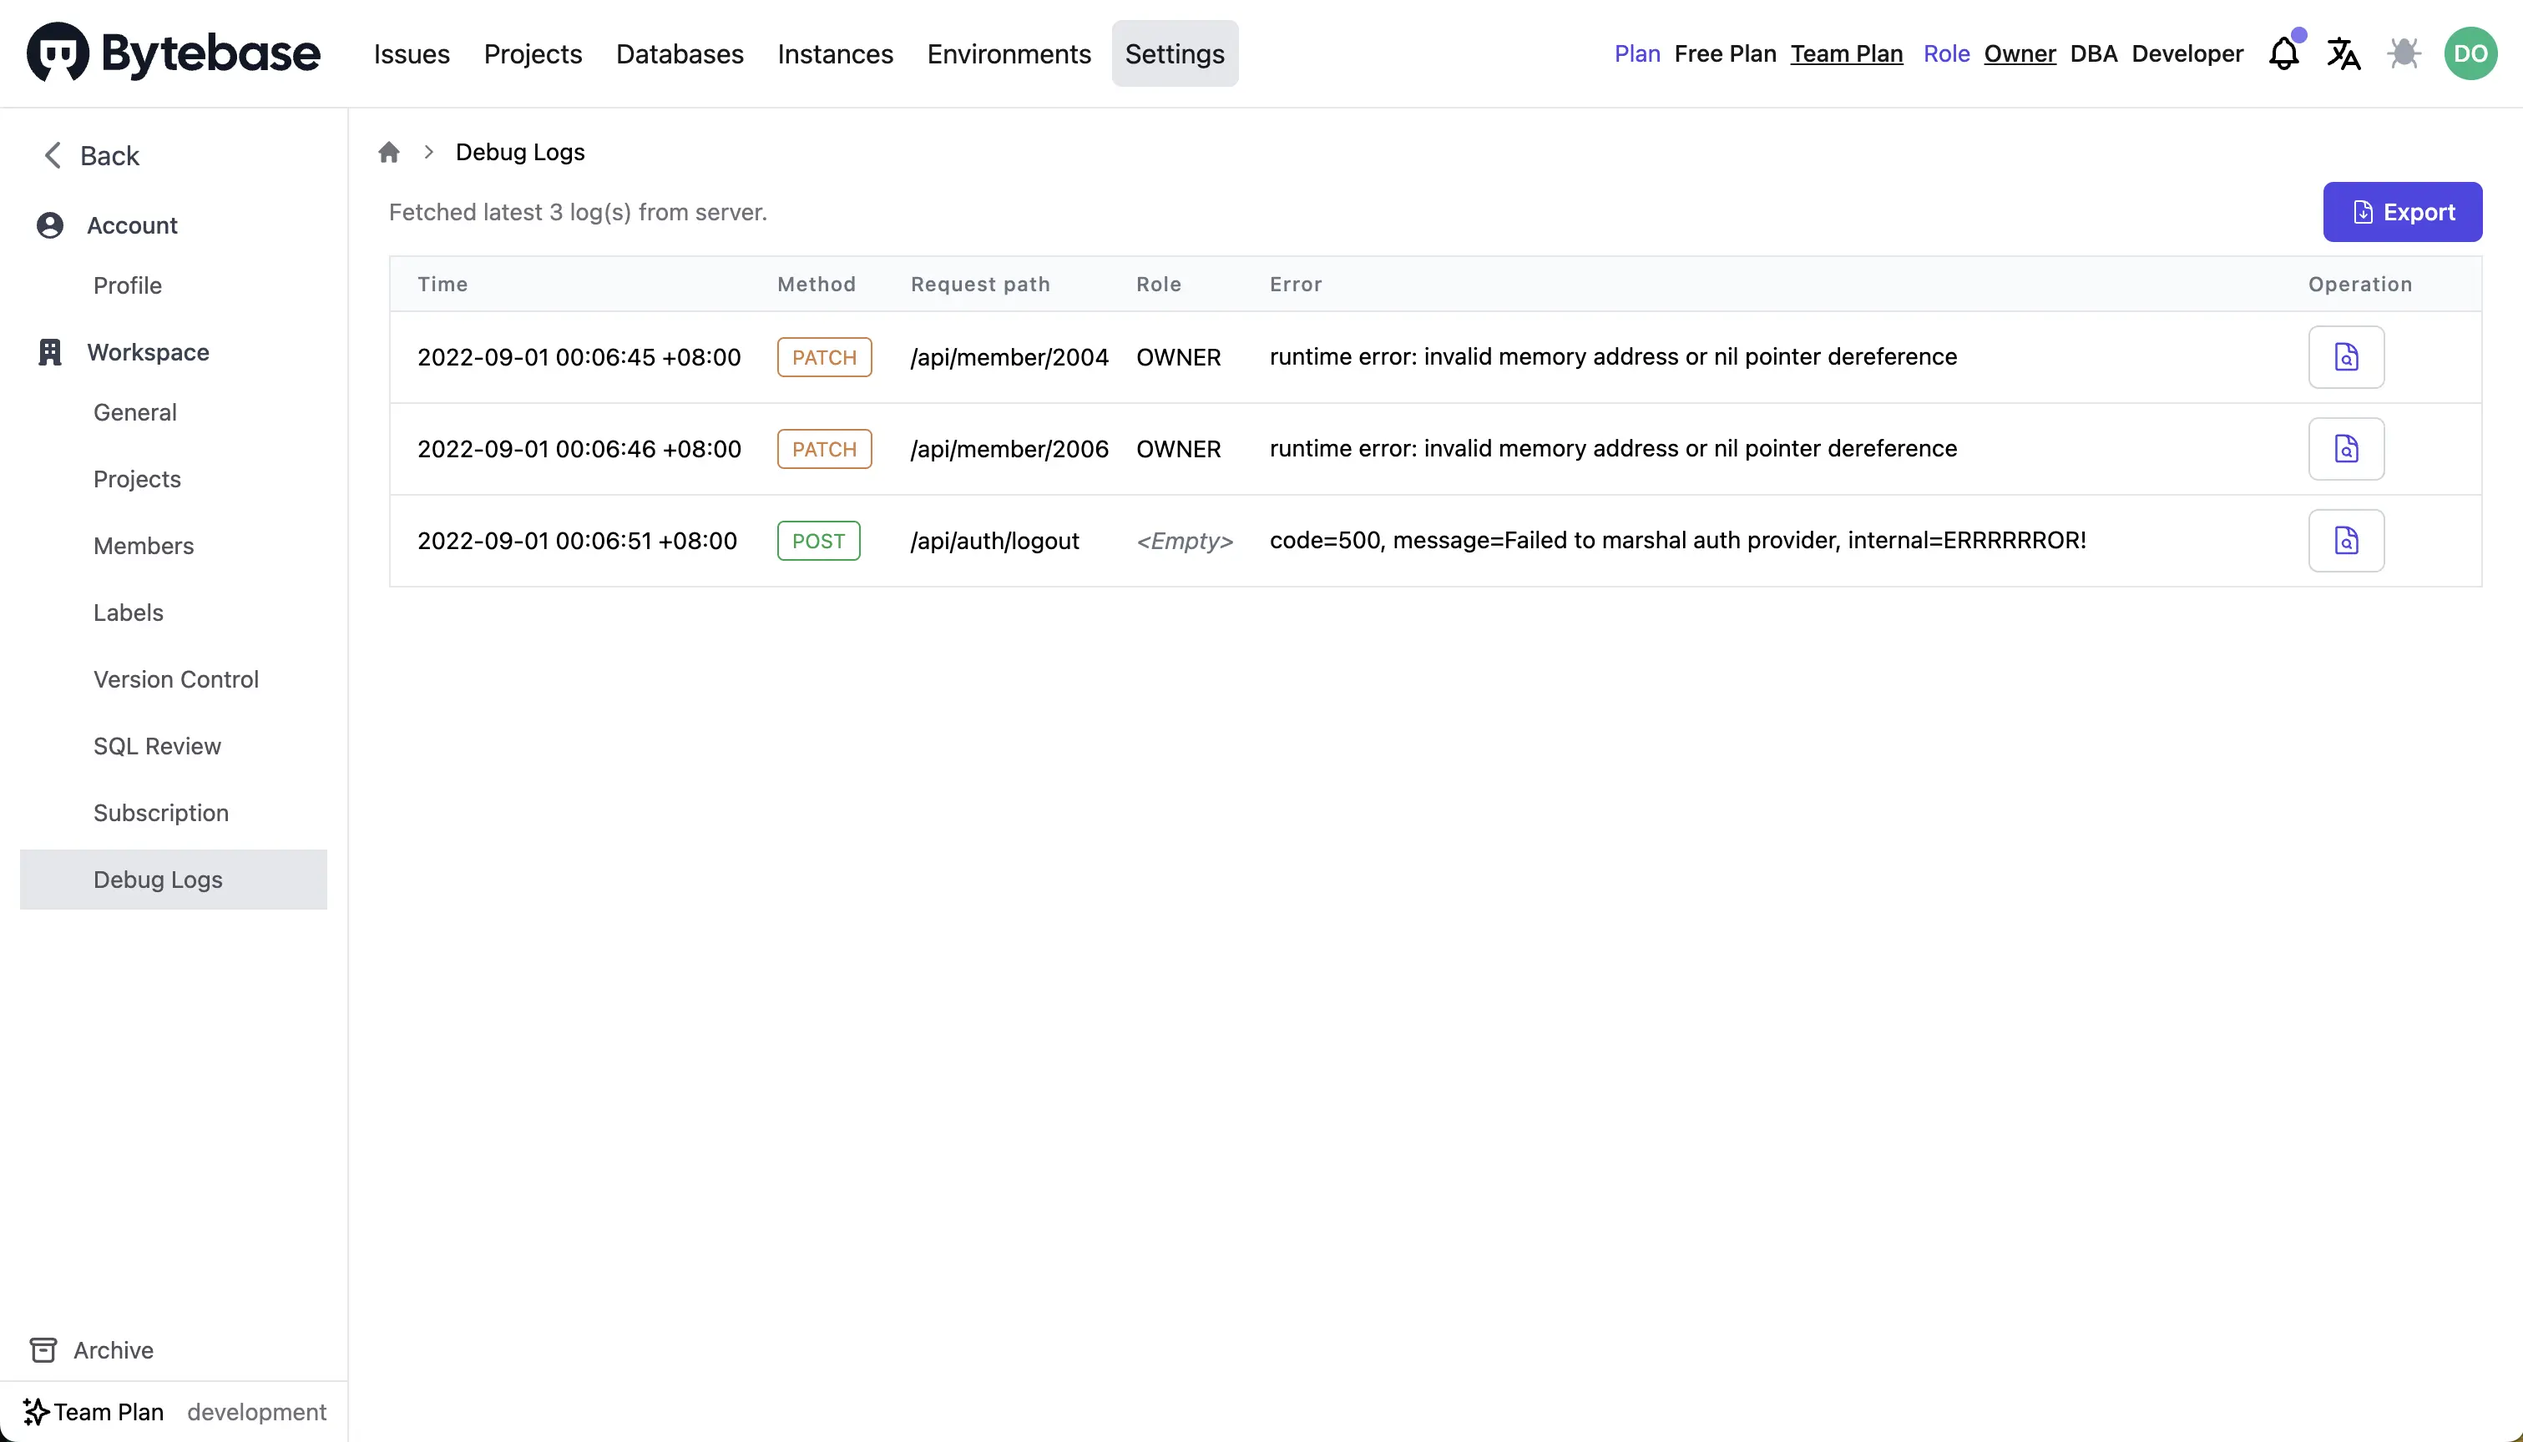
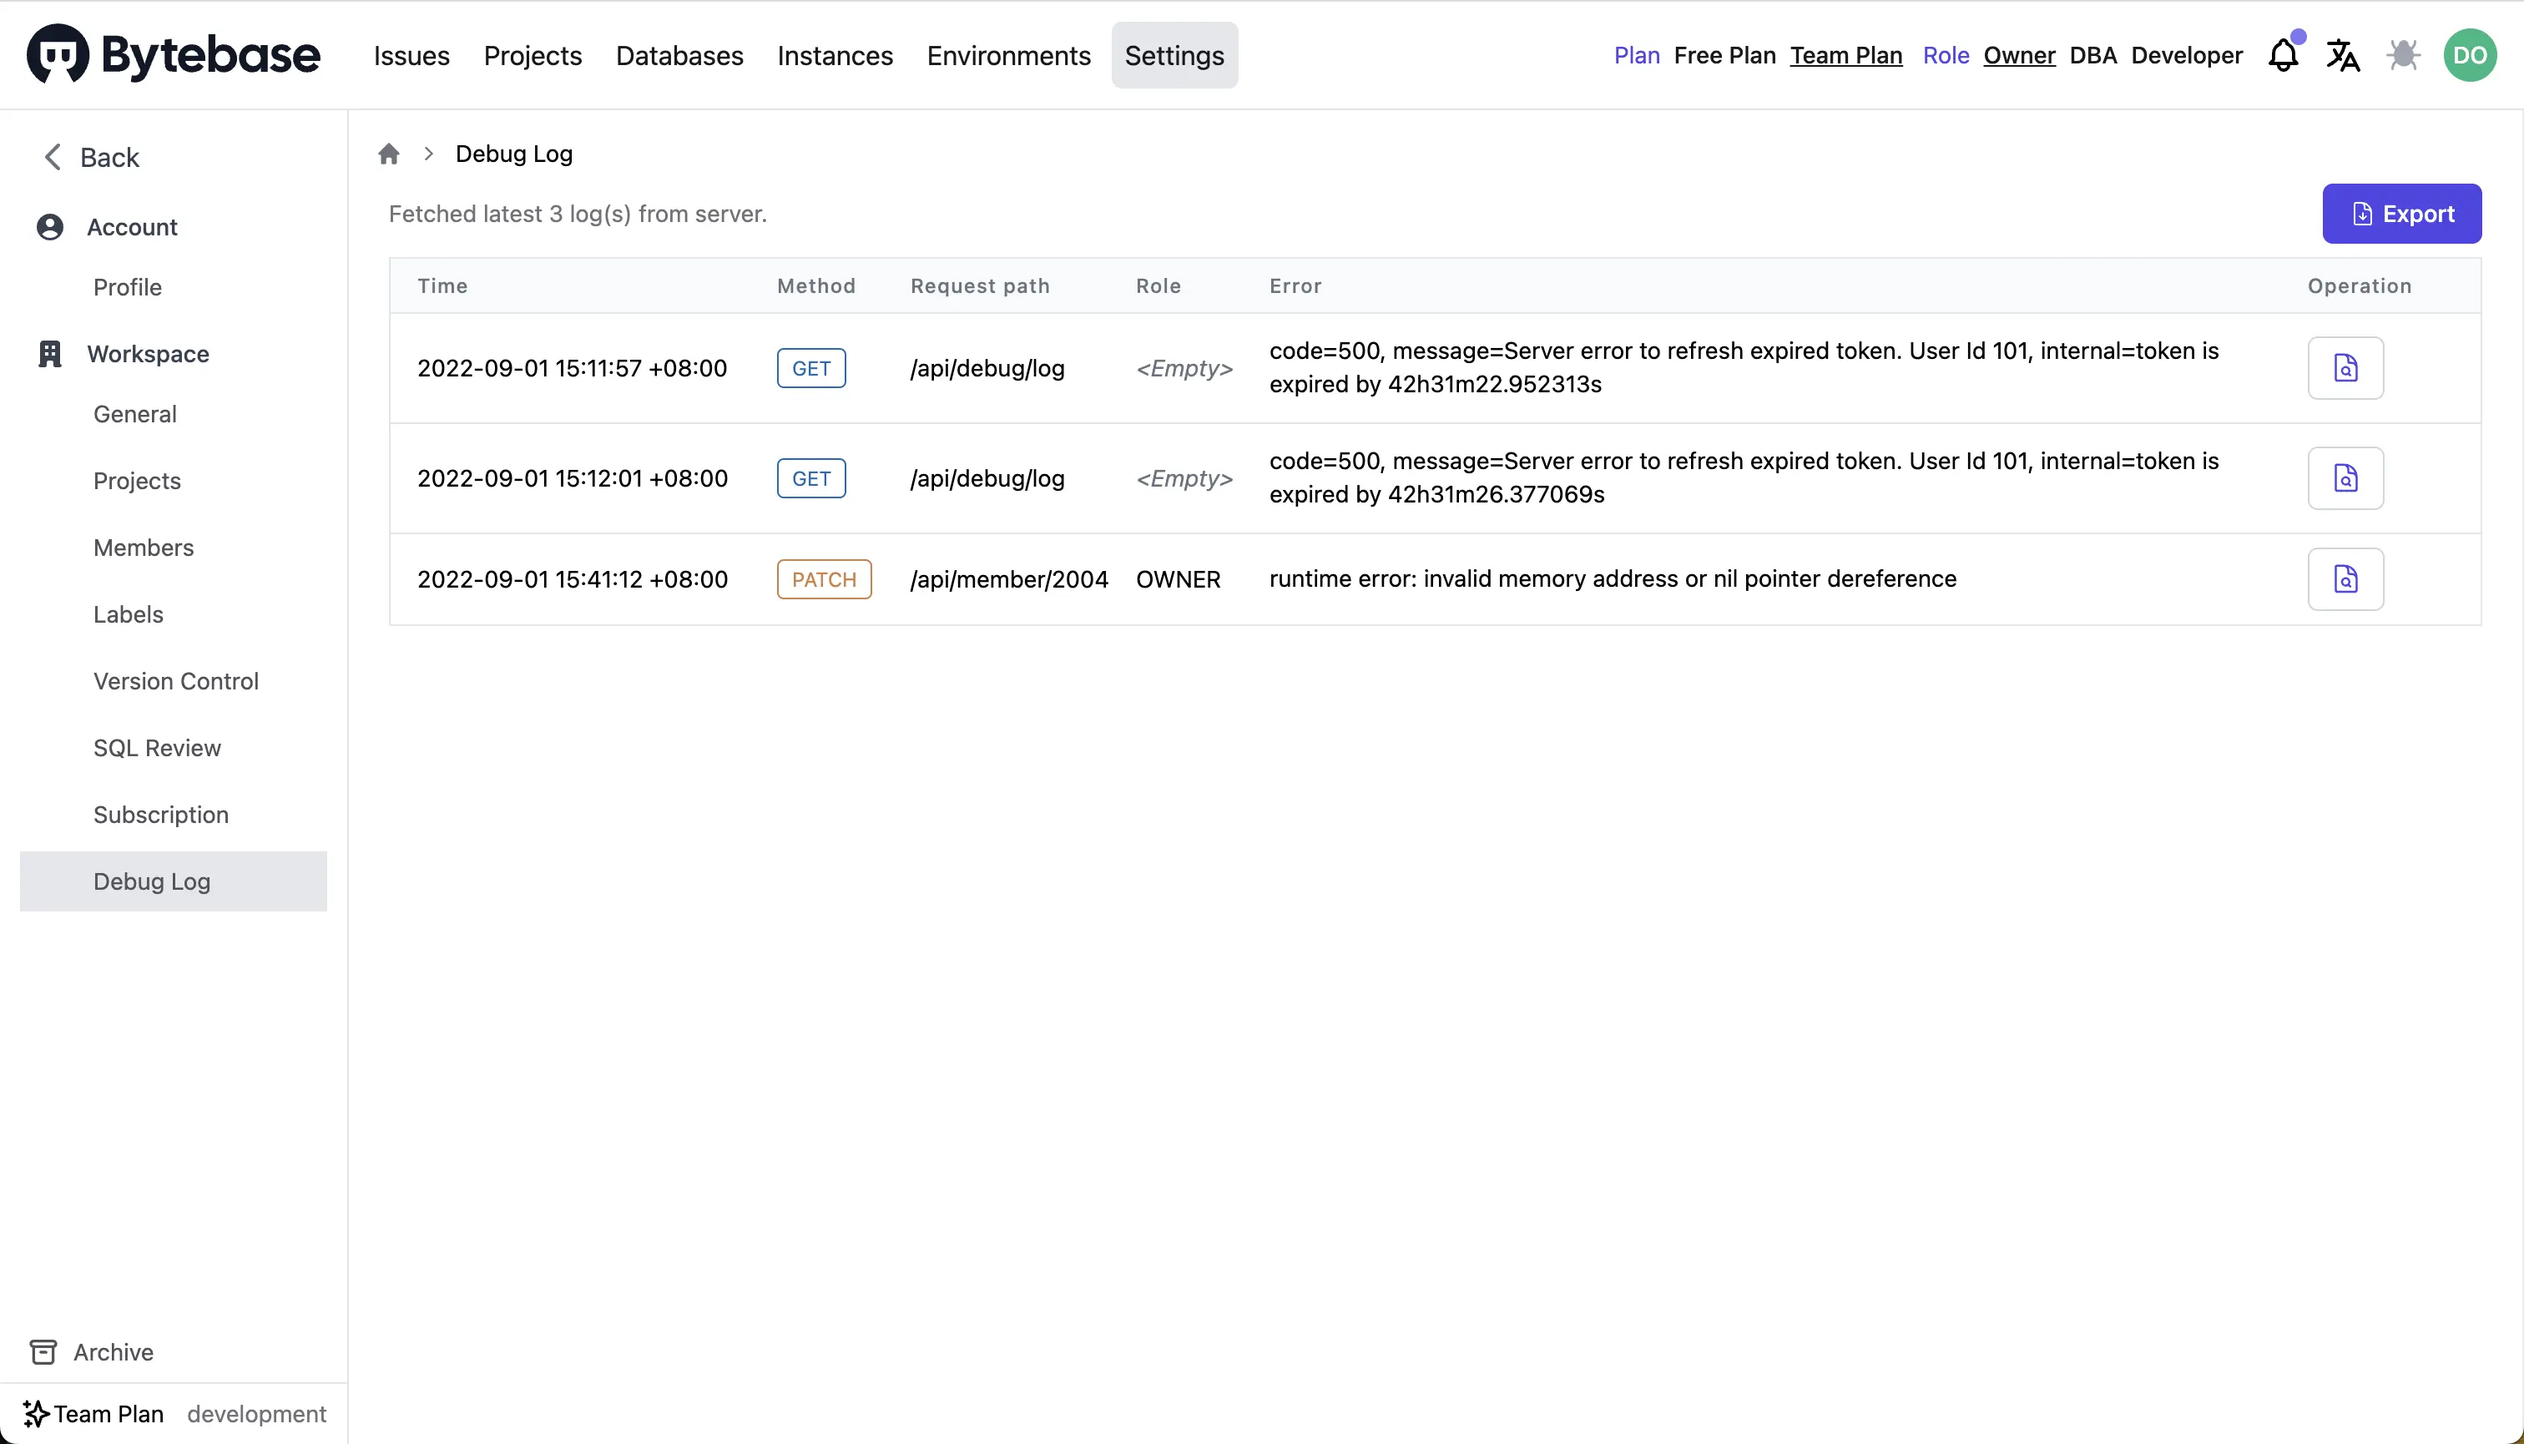
update

diff --git a/content/changelog/bytebase-1-3-2.md b/content/changelog/bytebase-1-3-2.md
@@ -1,6 +1,6 @@
 ---
 title: Bytebase 1.3.2
-author: Adela
+author: Ningjing
 published_at: 2022/9/1 17:20
 description: "- Integrate PostgreSQL Explain Visualizer. - Support in-place backup restore for PostgreSQL. - Support PITR to a new database for MySQL. - Users can mark an environment as protected, and a shield badge will show up next to its name."
 ---
@@ -13,7 +13,7 @@ description: "- Integrate PostgreSQL Explain Visualizer. - Support in-place back
 - Support PITR to a new database for MySQL.
 - Users can mark an environment as "protected", and a shield badge 🛡 will show up next to its name.
 ![environment-protected](/static/changelog/1.3.2/environment-protected.webp)
-- Users can view, copy and export server-side error info on Settings -> Workspace -> Debug Logs.
+- Users can view, copy and export server-side error info on Settings > Workspace > Debug Log.
 ![debug-log](/static/changelog/1.3.2/debug-log.webp)
 
 ## 🎄 Enhancements

diff --git a/content/changelog/bytebase-1-3-0.md b/content/changelog/bytebase-1-3-0.md
@@ -1,6 +1,6 @@
 ---
 title: Bytebase 1.3.0
-author: Adela
+author: Ningjing
 published_at: 2022/8/4 17:20
 description: "- Support SQL review for PostgreSQL. - GitHub.com VCS integration and authentication provider. - Restore a database to the time point before the last migration with one click."
 ---
